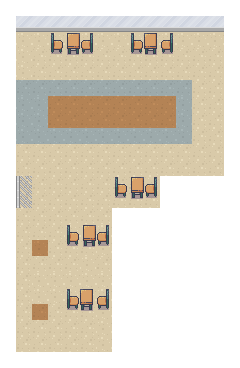
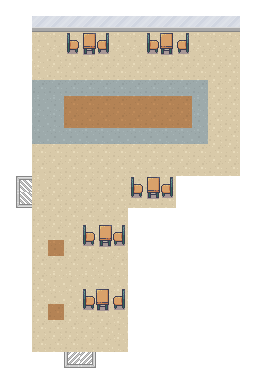
add scene transition

Changed region(s): [[0.0583, 0.0299, 0.9625, 0.9565]]

diff --git a/src/init.go b/src/init.go
@@ -97,45 +97,61 @@ func init() {
 		RenderItems: []RenderItem {
 			{
 				ID: TreeID,
-				BaseY: 23 * tileSize, // base of tree
+				BaseY: 24 * tileSize, // base of tree
 				ScreenDstX: 2 * tileSize,
-				ScreenDstY: 22 * tileSize,
+				ScreenDstY: 23 * tileSize,
 				SpriteImg: exteriorImage,
 			},
 			{
 				ID: TreeID,
-				BaseY: 23 * tileSize, // base of tree
+				BaseY: 24 * tileSize, // base of tree
 				ScreenDstX: 10 * tileSize,
-				ScreenDstY: 22 * tileSize,
+				ScreenDstY: 23 * tileSize,
 				SpriteImg: exteriorImage,
 			},
 			{
 				ID: TreeID,
-				BaseY: 21 * tileSize, // base of tree
+				BaseY: 22 * tileSize, // base of tree
 				ScreenDstX: 17 * tileSize,
-				ScreenDstY: 20 * tileSize,
+				ScreenDstY: 21 * tileSize,
 				SpriteImg: exteriorImage,
 			},
 			{
 				ID: TreeID,
-				BaseY: 13 * tileSize, // base of tree
+				BaseY: 14 * tileSize, // base of tree
 				ScreenDstX: 6 * tileSize,
-				ScreenDstY: 12 * tileSize,
+				ScreenDstY: 13 * tileSize,
 				SpriteImg: exteriorImage,
 			},
 			{
 				ID: TreeID,
-				BaseY: 13 * tileSize, // base of tree
+				BaseY: 14 * tileSize, // base of tree
 				ScreenDstX: 14 * tileSize,
-				ScreenDstY: 12 * tileSize,
+				ScreenDstY: 13 * tileSize,
 				SpriteImg: exteriorImage,
 			},
 			{
 				ID: TreeID,
-				BaseY: 11 * tileSize, // base of tree
+				BaseY: 12 * tileSize, // base of tree
 				ScreenDstX: 17 * tileSize,
-				ScreenDstY: 10 * tileSize,
+				ScreenDstY: 11 * tileSize,
 				SpriteImg: exteriorImage,
+			},
+		},
+		WarpTriggers: []WarpTrigger {
+			{
+				DespawnX: 1,
+				DespawnY: 1,
+				SpawnX: 4,
+				SpawnY: 20,
+				TargetScene: SceneCourtYard,
+			},
+			{
+				DespawnX: 2,
+				DespawnY: 1,
+				SpawnX: 5,
+				SpawnY: 20,
+				TargetScene: SceneCourtYard,
 			},
 		},
 	}
@@ -150,45 +166,61 @@ func init() {
 		RenderItems: []RenderItem {
 			{
 				ID: TreeID,
-				BaseY: 19 * tileSize, // base of tree
-				ScreenDstX: 2 * tileSize,
-				ScreenDstY: 18 * tileSize,
-				SpriteImg: exteriorImage,
-			},
-			{
-				ID: TreeID,
-				BaseY: 15 * tileSize, // base of tree
-				ScreenDstX: 2 * tileSize,
-				ScreenDstY: 14 * tileSize,
-				SpriteImg: exteriorImage,
-			},
-			{
-				ID: TreeID,
-				BaseY: 7 * tileSize, // base of tree
+				BaseY: 20 * tileSize, // base of tree
 				ScreenDstX: 3 * tileSize,
-				ScreenDstY: 6 * tileSize,
+				ScreenDstY: 19 * tileSize,
 				SpriteImg: exteriorImage,
 			},
 			{
 				ID: TreeID,
-				BaseY: 6 * tileSize, // base of tree
-				ScreenDstX: 5 * tileSize,
-				ScreenDstY: 5 * tileSize,
+				BaseY: 16 * tileSize, // base of tree
+				ScreenDstX: 3 * tileSize,
+				ScreenDstY: 15 * tileSize,
+				SpriteImg: exteriorImage,
+			},
+			{
+				ID: TreeID,
+				BaseY: 8 * tileSize, // base of tree
+				ScreenDstX: 4 * tileSize,
+				ScreenDstY: 7 * tileSize,
 				SpriteImg: exteriorImage,
 			},
 			{
 				ID: TreeID,
 				BaseY: 7 * tileSize, // base of tree
-				ScreenDstX: 7 * tileSize,
+				ScreenDstX: 6 * tileSize,
 				ScreenDstY: 6 * tileSize,
 				SpriteImg: exteriorImage,
 			},
 			{
 				ID: TreeID,
-				BaseY: 6 * tileSize, // base of tree
-				ScreenDstX: 9 * tileSize,
-				ScreenDstY: 5 * tileSize,
+				BaseY: 8 * tileSize, // base of tree
+				ScreenDstX: 8 * tileSize,
+				ScreenDstY: 7 * tileSize,
 				SpriteImg: exteriorImage,
+			},
+			{
+				ID: TreeID,
+				BaseY: 7 * tileSize, // base of tree
+				ScreenDstX: 10 * tileSize,
+				ScreenDstY: 6 * tileSize,
+				SpriteImg: exteriorImage,
+			},
+		},
+		WarpTriggers: []WarpTrigger {
+			{
+				DespawnX: 4,
+				DespawnY: 21,
+				SpawnX: 1,
+				SpawnY: 2,
+				TargetScene: SceneParkingLot,
+			},
+			{
+				DespawnX: 5,
+				DespawnY: 21,
+				SpawnX: 2,
+				SpawnY: 2,
+				TargetScene: SceneParkingLot,
 			},
 		},
 	}

diff --git a/src/main.go b/src/main.go
@@ -90,6 +90,14 @@ type RenderItem struct {
 	SpriteImg *ebiten.Image
 }
 
+// WarpTrigger defines a specific tile on the current scene where there is a
+// transition
+type WarpTrigger struct {
+	DespawnX, DespawnY int // Coordinate of tile in current scene in grid unit
+	SpawnX, SpawnY int // Coordinate of tile in next scene in grid unit
+	TargetScene int // ID of next scene
+}
+
 // Scene data structure
 type Scene struct {
 	ID int
@@ -98,6 +106,7 @@ type Scene struct {
 	WidthPixels float64
 	HeightPixels float64
 	RenderItems []RenderItem
+	WarpTriggers []WarpTrigger
 }
 
 // Game data structure
@@ -233,6 +242,16 @@ func (g *Game) Update() error {
 			g.Player.Action = ActionWalk
 		}
 	} else {
+		// Check if next tile is a WarpTrigger
+		for _, trigger := range g.Scenes[g.CurrentScene].WarpTriggers {
+			if nextX == trigger.DespawnX && nextY == trigger.DespawnY {
+				fmt.Printf("Transition triggered: nextX: %d\tnextY: %d\n", nextX, nextY)
+				g.CurrentScene = trigger.TargetScene
+				g.Player.GridX = trigger.SpawnX
+				g.Player.GridY = trigger.SpawnY
+				fmt.Printf("Transition triggered: GridX: %d\tGridY: %d\n", g.Player.GridX, g.Player.GridY)
+			}
+		}
 		// If no key is held then we reset player to idle
 		g.Player.AnimFrame = 2
 		g.Player.AnimProgress = 0.0
